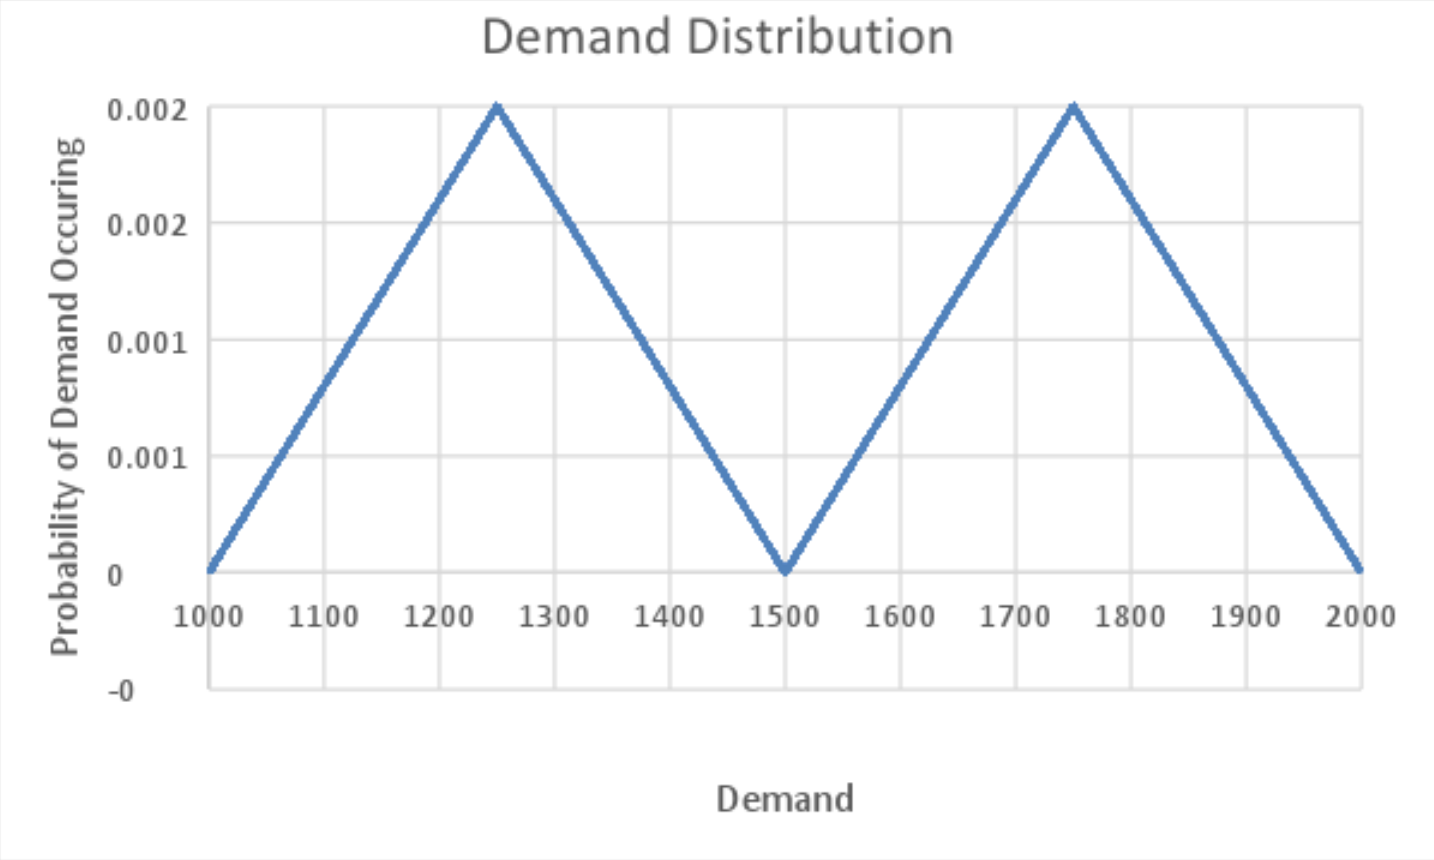
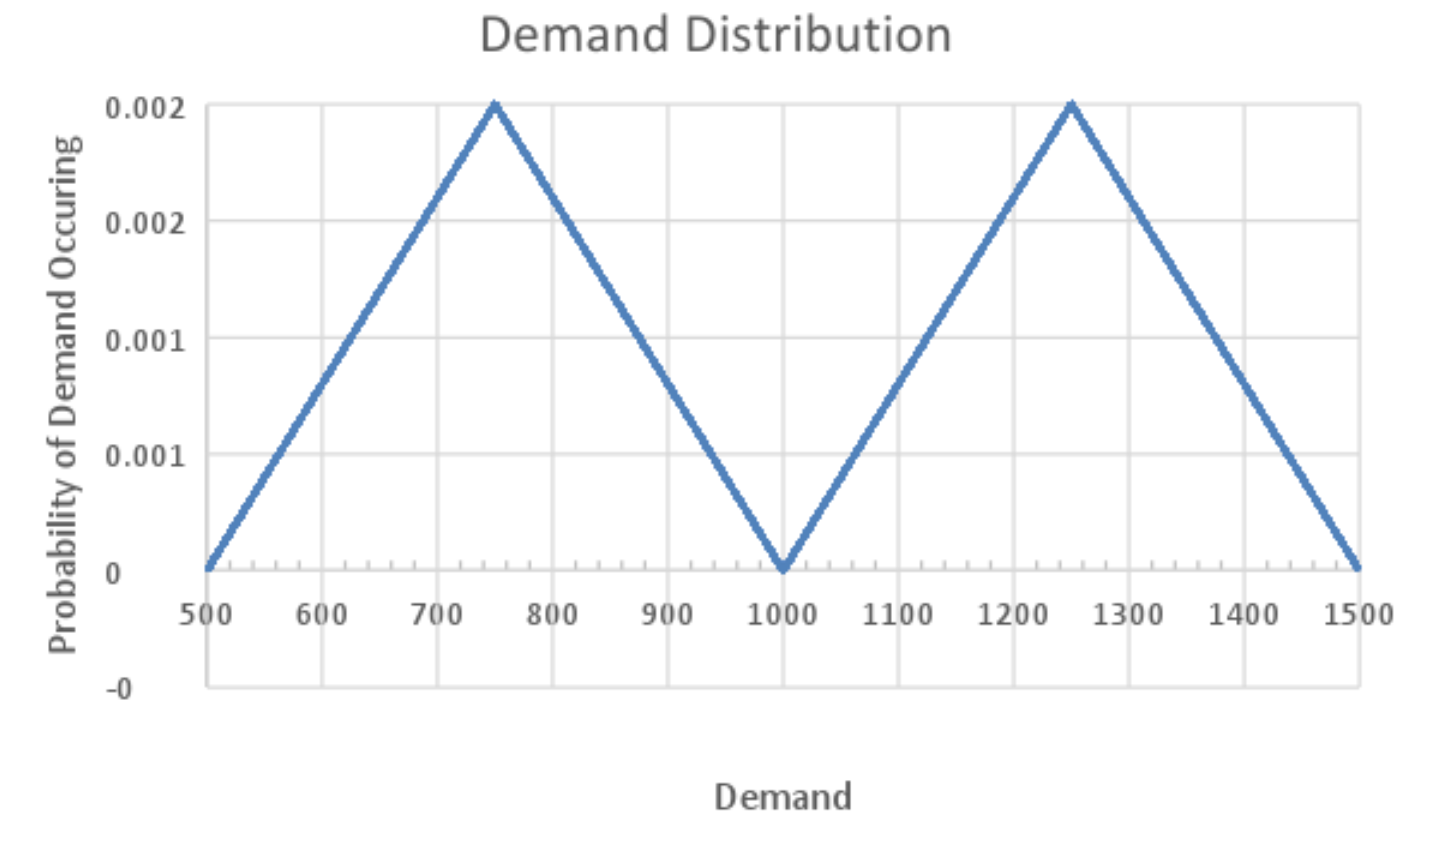
add new high graphs

diff --git a/client/containers/Instructions/index.js b/client/containers/Instructions/index.js
@@ -13,11 +13,11 @@ class Instructions extends Component {
     window.scrollTo(0, 0)
   }
   getDemand = () => {
-    const uniDemand = `There is a 1/1000 chance that demand in any round will be any one of the integers from ${demandBetween}. This means that the distribution of demand (i.e. the probability of a demand value occurring) is uniform. The following figure illustrates the probability of the randomly generated demand in each round:
+    const uniDemand = `There is a 1/1000 chance that demand in any round will be any one of the integers from ${demandBetween}.  That means that there is an equal chance that demand for the widget will be equal to any number from ${demandBetween}. The following figure illustrates the probability of the randomly generated demand in each round:
 
   ![Graph](${u[demandBoost ? 'uniGraphSrcHigh' : 'uniGraphSrcLow']} "Graph")
 `
-    const biDemand = `The distribution of demand (i.e. the probability of a demand value occurring) consists of two symmetric triangular distributions. For each triangle, the highest probability of a realized demand value is at the top of the triangle, and the probability of arrivals lower as the values of demand decreases away from the peak towards upper and lower bounds of the triangle. The first triangle distribution has a lower bound at ${0 + demandBoost} units of demand, a peak (mode) at ${250 + demandBoost} units of demand, and an upper bound of ${500 + demandBoost} units. The second triangle has a lower bound at ${500 + demandBoost} units of demand, a peak (mode) at  ${750 + demandBoost} units of demand, and an upper bound of  ${1000 + demandBoost} units. The following figure illustrates the probability of the randomly generated demand in each round:
+    const biDemand = `The distribution of demand (i.e. the probability of a demand value occurring) depends on the weather, which is equally likely to be good or bad. If the weather is poor, then demand ranges from ${1 + demandBoost} - ${500 + demandBoost}. The most likely value of demand is ${250 + demandBoost}, and the probability of demand lowers, at a constant rate, as the values of demand moves away from the peak towards either ${1 + demandBoost} and ${500 + demandBoost}. Similarly, if the weather is good, then demand ranges from ${500 + demandBoost} - ${1000 + demandBoost}. The most likely value of demand is ${750 + demandBoost}, and the probability of demand lowers, at a constant rate, as the values of demand moves away from the peak towards either ${500 + demandBoost} and ${1000 + demandBoost}. The following figure illustrates the probability of the randomly generated demand in each round:
 
 ![Graph](${u[demandBoost ? 'biGraphSrcHigh' : 'biGraphSrcLow']} "Graph")
 `
@@ -49,13 +49,13 @@ class Instructions extends Component {
     
 Thank you for participating. Make sure to read the instructions carefully as you will be paid more if you perform better. You will be playing a game where you can earn “experimental dollars”. Your total profit (the sum of the profits of every round) from the game will be divided by ${divisor}, then added to your participation fee of $0.50 and paid to you at the end of the session.
 
-In the game, you are a retailer selling a single item, the widget, over multiple rounds. In each round, you first order widgets from a (automated) supplier at a cost of $${priceCost.cost} per unit, and then sell widgets to your customers at a price of $12 per unit. Your task is to determine how many widgets to order each round to maximize your profit over all the rounds of the game. If you order too much, you incur costs associated with unsold items, and if you order too little, you forego profits you otherwise could have collected.
+In the game, you are a retailer selling a single item, the widget, over multiple rounds. In each round, you first order widgets from a (automated) supplier at a cost of $${priceCost.cost} per unit, and then sell widgets to your customers at a price of $12 per unit. Your task is to determine how many widgets to order each round to maximize your profit over all the rounds of the game. If you order too much, you still incur the cost of $${priceCost.cost} associated with each unsold item, and if you order too little, you forego profits you otherwise could have collected.
 
 There will be 35 rounds in total. The first 5 rounds are practice and do not count towards the cumulative profit which determines your bonus pay. The process of each round will be as follows:
 
-1. Choosing order quantity: At the start of each round you decide on an order quantity between ${demandBetween}. You do not know the customer demand, for that period, when you place the order.
+1. Choosing order quantity: At the start of each round you decide on an order quantity between ${demandBetween}. You do not know the customer demand when you place the order.
 
-2. Generation of customer demand: Once you place your order, customer demand will be randomly generated from a fixed (unchanging) distribution between ${demandBetween} units. The randomly generated demand will determine your profit for the round.
+2. Generation of customer demand: Once you place your order, customer demand will be randomly generated from a fixed (unchanging) distribution between ${demandBetween} units. The randomly generated demand combined with the amount that you order will determine your profit for the round.
 ${this.getDemand()}
   Remember, the demand in any one round is random and independent of the demand from earlier rounds. So a small or large demand in one round has no influence on whether demand is small or large in any other rounds.
 

diff --git a/client/containers/TestUnderstanding/index.js b/client/containers/TestUnderstanding/index.js
@@ -29,16 +29,16 @@ const data = {
   high: {
     e1: {
       questions: [
-        'If you order 200 widgets, and demand is 500, how many widgets have you sold? _______ widgets',
-        'If you order 200 widgets, and demand is 500, how many widgets do you have leftover? _______ widgets',
-        'If you order 600 widgets, and demand is 500, how many widgets have you sold? 	_______ widgets',
-        'If you order 600, widget and demand is 500, how many widgets do you have leftover? _______ widgets',
+        'If you order 200 widgets and demand is 500, how many widgets have you sold? _______ widgets',
+        'If you order 200 widgets and demand is 500, how many widgets do you have leftover? _______ widgets',
+        'If you order 600 widgets and demand is 500, how many widgets have you sold? 	_______ widgets',
+        'If you order 600 widget and demand is 500, how many widgets do you have leftover? _______ widgets',
       ],
       answers: {
-        'If you order 200 widgets, and demand is 500, how many widgets have you sold? _______ widgets': 200,
-        'If you order 200 widgets, and demand is 500, how many widgets do you have leftover? _______ widgets': 0,
-        'If you order 600 widgets, and demand is 500, how many widgets have you sold? 	_______ widgets': 500,
-        'If you order 600, widget and demand is 500, how many widgets do you have leftover? _______ widgets': 100,
+        'If you order 200 widgets and demand is 500, how many widgets have you sold? _______ widgets': 200,
+        'If you order 200 widgets and demand is 500, how many widgets do you have leftover? _______ widgets': 0,
+        'If you order 600 widgets and demand is 500, how many widgets have you sold? 	_______ widgets': 500,
+        'If you order 600 widget and demand is 500, how many widgets do you have leftover? _______ widgets': 100,
       }
     },
     e2: {
@@ -63,16 +63,16 @@ const data = {
   low: {
     e1: {
       questions: [
-        'If you order 1200 widgets, and demand is 1500, how many widgets have you sold? _______ widgets',
-        'If you order 1200 widgets, and demand is 1500, how many widgets do you have leftover? _______ widgets',
-        'If you order 1600 widgets, and demand is 1500, how many widgets have you sold? _______ widgets',
-        'If you order 1600, widget and demand is 1500, how many widgets do you have leftover? _______ widgets',
+        'If you order 1200 widgets and demand is 1500, how many widgets have you sold? _______ widgets',
+        'If you order 1200 widgets and demand is 1500, how many widgets do you have leftover? _______ widgets',
+        'If you order 1600 widgets and demand is 1500, how many widgets have you sold? _______ widgets',
+        'If you order 1600 widget and demand is 1500, how many widgets do you have leftover? _______ widgets',
       ],
       answers: {
-        'If you order 1200 widgets, and demand is 1500, how many widgets have you sold? _______ widgets': (1200),
-        'If you order 1200 widgets, and demand is 1500, how many widgets do you have leftover? _______ widgets': (0),
-        'If you order 1600 widgets, and demand is 1500, how many widgets have you sold? _______ widgets': (1500),
-        'If you order 1600, widget and demand is 1500, how many widgets do you have leftover? _______ widgets': (100),
+        'If you order 1200 widgets and demand is 1500, how many widgets have you sold? _______ widgets': (1200),
+        'If you order 1200 widgets and demand is 1500, how many widgets do you have leftover? _______ widgets': (0),
+        'If you order 1600 widgets and demand is 1500, how many widgets have you sold? _______ widgets': (1500),
+        'If you order 1600 widget and demand is 1500, how many widgets do you have leftover? _______ widgets': (100),
       }
     },
     e2: {
@@ -132,7 +132,7 @@ class TestUnderstanding extends React.Component {
         ...this.state[type],
         [question]: {
           ...this.state[type][question],
-          value
+          value,
         }
       }
     })
@@ -146,7 +146,7 @@ class TestUnderstanding extends React.Component {
   }
   getErrors = (type) => {
     const nextState = Object.keys(this.state[type]).reduce((finalResult, question) => {
-      if (finalResult[question].correctAnswer === Number(finalResult[question].value)) {
+      if (finalResult[question].correctAnswer === Number(finalResult[question].value) && finalResult[question].value !== '') {
         finalResult[question].error = ''
       } else {
         finalResult[question].error = 'This is not the correct value'

diff --git a/client/containers/Ethics/index.js b/client/containers/Ethics/index.js
@@ -1,6 +1,6 @@
 import React from 'react'
 import Markdown from 'react-markdown'
-import TextInput from 'ui/Input'
+import Input from 'ui/Input'
 import Checkbox from 'ui/Checkbox'
 import Button from 'ui/Button'
 import Select from 'ui/Select'
@@ -19,7 +19,7 @@ Chief Investigator: Sam Kishner
 School/Faculty: School of Information Systems and Technology Management, Business School
 
 *What does participation in this research require, and are there any risks involved?*
-If you decide to take part in this survey, you will be provided with instructions on how to play a supply chain management game. We expect the instructions and playing the game to take 10 - 15 minutes. 
+If you decide to take part in this research experiment, you will be provided with instructions on how to play a supply chain management game. Before the instructions on playing the game, you will complete a 6 question survey. We expect the survey, instructions and playing the game to take 10 - 15 minutes. 
 
 *Will I be paid to participate in this project?*
 You will be compensated for your participation. By participating in the study, you will receive $2 for completion and a bonus payment based on performance between $0 - $15. 
@@ -67,7 +67,8 @@ const initState = checks.reduce((finalResult, check) => {
   return finalResult
 }, {
   country: '',
-  gender: ''
+  gender: '',
+  age: '',
 })
 
 const genderOptions = [{
@@ -122,6 +123,7 @@ class Ethics extends React.PureComponent {
       }
       <div><span>Nationality: <CountrySelect value={this.state.country} onChange={this.onSelectCountry} /></span></div>
       <div><span>Gender Identity: <Select value={this.state.gender} onChange={this.onChange.bind(null, 'gender')} options={genderOptions}/></span></div>
+      <div><span>Age (years): <Input type="number" value={this.state.age} onChange={this.onChange.bind(null, 'age')}/></span></div>
       <Button onClick={this.submit} disabled={!this.checkValid()}>I agree, start questionnaire</Button>
     </div>)
   }

diff --git a/client/containers/RiskAdverse/index.js b/client/containers/RiskAdverse/index.js
@@ -26,10 +26,17 @@ class RiskAdverse extends React.PureComponent {
     answers
   }
   handleChange = (question, num) => {
+    let finalNum = Number(num)
+    if (finalNum < 1) {
+      finalNum = 1
+    }
+    if (finalNum > 7) {
+      finalNum = 7
+    }
     const nextState = {
       answers: {
         ...this.state.answers,
-        [question]: num
+        [question]: finalNum
       }
     }
     this.setState(nextState)
@@ -49,7 +56,8 @@ class RiskAdverse extends React.PureComponent {
     if (this.isValid()) this.props.goToGame(this.state.answers)
   }
   render () {
-    const source = `For each of the following statements, please indicate the likelihood that you would engage in the described activity or behavior if you were to find yourself in that situation. Provide a rating from Extremely Unlikely to Extremely Likely, using the following scale: 
+    const source = `# Pregame Survey
+For each of the following statements, please indicate the likelihood that you would engage in the described activity or behavior if you were to find yourself in that situation. Provide a rating from Extremely Unlikely to Extremely Likely, using the following scale: 
 
 1 | 2 | 3 | 4 | 5 | 6 | 7
 :---: | :---: | :---: | :---: | :---: | :---: | :---:
@@ -57,9 +65,10 @@ Extremely Unlikely | Moderately Unlikely | Somewhat Unlikely | Neither likely no
 `
     return <div className={style.table}>
       <Markdown source={source} />
+      <br />
       <div>
         {questions.map((question) => {
-          return <div><span>{question}</span><Input type="number" value={this.state.answers[question]} onChange={(num) => this.handleChange(question, num)} /></div>
+          return <div><span>{question}</span><Input type="number" value={this.state.answers[question]} onChange={(num) => this.handleChange(question, num)} /><br /></div>
         })}
       </div>
       <Button disabled={!this.isValid()} className={style.button} onClick={this.submit}>Proceed To Instructions</Button>

diff --git a/client/reducers/todos.js b/client/reducers/todos.js
@@ -21,7 +21,7 @@ const uniqueId = Math.round(1000000000 * Math.random())
 
 const host = process.env.NODE_ENV === 'development' ? 'http://localhost:8080' : 'https://mechanical-t.herokuapp.com'
 
-// const randomBool = () => Math.random() >= 0.5
+const randomBool = () => Math.random() >= 0.5
 
 const randomChoice = Math.random()
 
@@ -47,22 +47,22 @@ const getCost = () => {
 export const divisor = randomChoice >= 0.5 ? 50000 : 50000
 
 const getDistribution = () => {
-  // return randomBool() ? 'uni' : 'bi'
-  const thirds = 1 / 3
-  const rand = Math.random()
-  if (rand < thirds) {
-    return 'uni'
-  }
-  if (rand < (2 * thirds)) {
-    return 'bi'
-  }
-  return 'bay'
+  return randomBool() ? 'uni' : 'bi'
+  // const thirds = 1 / 3
+  // const rand = Math.random()
+  // if (rand < thirds) {
+  //   return 'uni'
+  // }
+  // if (rand < (2 * thirds)) {
+  //   return 'bi'
+  // }
+  // return 'bay'
 }
 
 
-export const demandBoost = randomChoice >= 0.5 ? 0 : 1000
+export const demandBoost = randomChoice >= 0.5 ? 0 : 500
 
-export const demandBetween = demandBoost ? '1000 and 2000' : '0 and 1000'
+export const demandBetween = demandBoost ? '501 and 1500' : '1 and 1000'
 
 export const priceCost = {
   price: 12,
@@ -74,7 +74,8 @@ const initialState = {
   ...priceCost,
   assignmentId: params.assignmentId,
   showSummary: false,
-  distribution: getDistribution(),
+  // distribution: getDistribution(),
+  distribution: 'bi',
   // showSummary: true,
   // uniResults: [{
   //   unitsOrdered: 1,
@@ -95,7 +96,7 @@ const initialState = {
   game: 1,
   attempt: 0,
   // view: 'game',
-  // view: 'instructions',
+  view: 'instructions',
   // view: 'riskAdverse',
   // view: 'testUnderstanding',
 }
